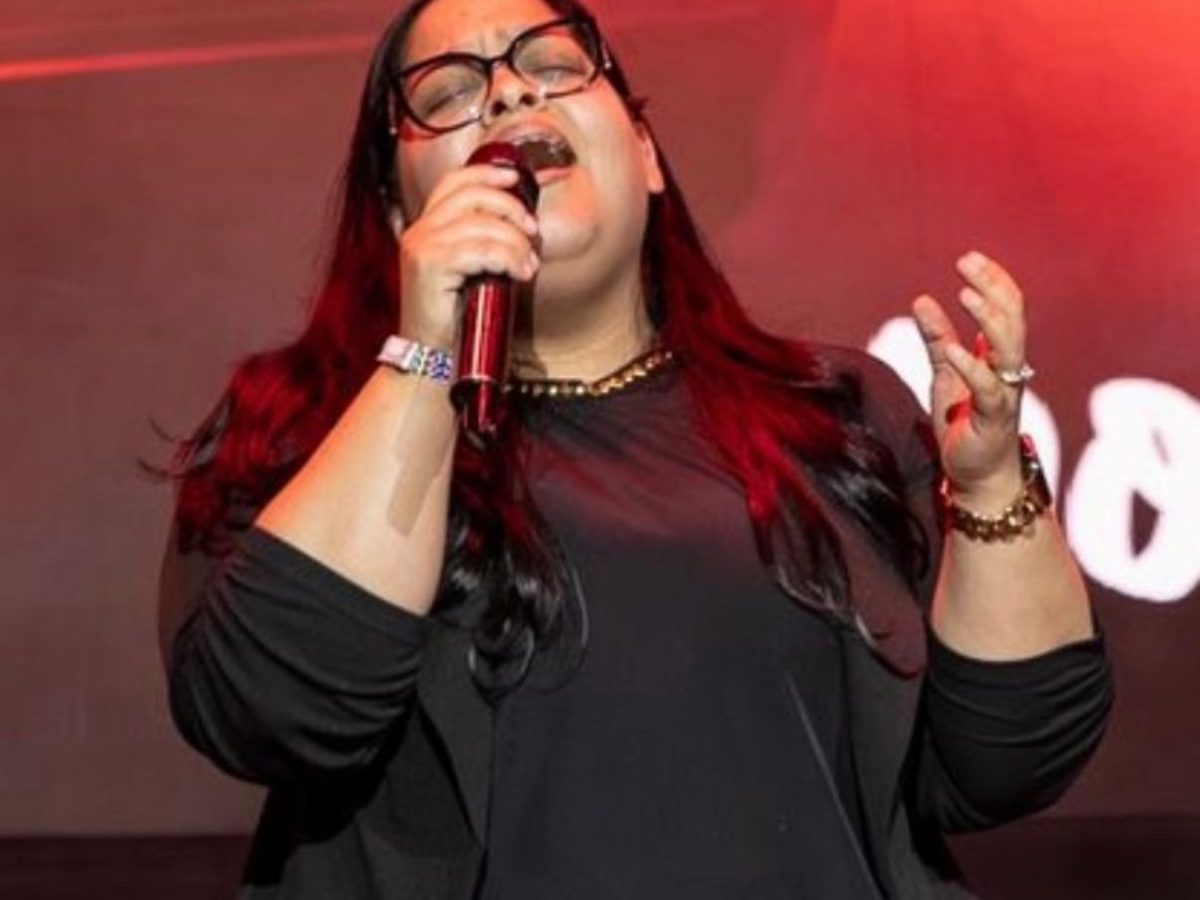
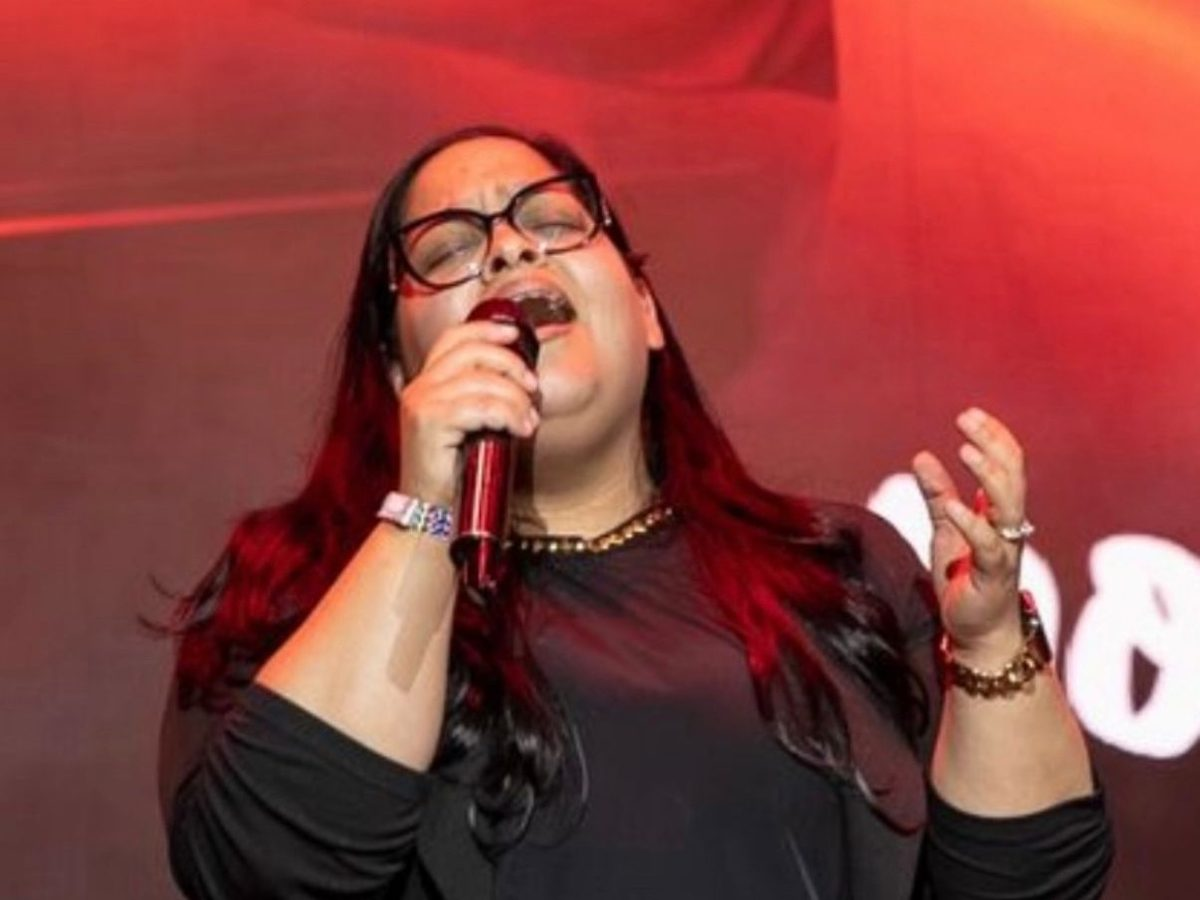
Ajustes pedidos por el cliente
Encuadre de las fotos
- El ajuste que subía el encuadre deja de ser sólo de móvil: en
  escritorio la tarjeta tiene proporciones parecidas (389x432 frente a
  327x432) y sufría lo mismo.
- Pasa a ser configurable por tarjeta con --raise, porque no todas las
  fotos tienen al sujeto en el centro.
- Anhelo Ardiente queda exenta: su foto es vertical y la cantante ya
  salía alta en el recorte, así que subirla le cortaba la cara. Además
  se recorta de nuevo el original dejando aire sobre la cabeza.

Comunidad
- Las tres plataformas pasan a ser tarjetas con fotografía ancha a todo
  el ancho del bloque y el contenido debajo. Las fotos aún no han
  llegado: hasta entonces sale el degradado institucional con la
  etiqueta "Foto pendiente".
- Community Outreach no tiene marca propia y usa el identificador de
  Casa de Bendición.
- Se retira el raíl de progreso vertical, que ya no encaja con tarjetas
  separadas.

Navegación
- "Momentos" pasa a tener su propia ancla, después de Conéctate.

Contenido
- La cifra bajo el vídeo pasa de 9 a 14 ministerios activos.
- Correo de contacto en el footer. Los enlaces mailto: no abren en
  pestaña nueva —dejarían una pestaña en blanco— y llevan su propio
  texto para lectores de pantalla.

diff --git a/src/components/sections/Community.jsx b/src/components/sections/Community.jsx
@@ -1,10 +1,8 @@
-import { useRef } from "react";
-import { motion, useScroll, useSpring } from "framer-motion";
 import { community } from "../../data/site";
 import { Reveal, SplitHeading, Stagger, StaggerItem } from "../ui/Motion";
 import Eyebrow from "../ui/Eyebrow";
 import { DualCTA } from "../ui/Button";
-import { MinistryLogo } from "../ui/Logo";
+import Logo, { MinistryLogo } from "../ui/Logo";
 import { ArcDivider, FlameWatermark, GoldRule } from "../ui/Decor";
 
 /* El título del documento son tres frases: una por línea. */
@@ -13,60 +11,81 @@ const titleLines = community.title
   .map((s, i, a) => (i < a.length - 1 ? `${s}.` : s));
 
 /* ------------------------------------------------------------------ */
+/* Cada plataforma es una tarjeta con fotografía ancha a todo el       */
+/* ancho del bloque y el contenido debajo.                             */
 function Platform({ platform }) {
   return (
     <StaggerItem>
-      <article className="group relative border-t border-white/12 py-12 lg:py-16">
-        <span
-          aria-hidden="true"
-          className="gradient-gold pointer-events-none absolute inset-x-0 top-0 h-[2px] origin-left scale-x-0 transition-transform duration-700 ease-[cubic-bezier(0.16,1,0.3,1)] group-hover:scale-x-100"
-        />
+      <article className="group relative mb-6 overflow-hidden rounded-xl bg-navy-deep/60 shadow-[0_26px_60px_-40px_rgba(0,0,0,0.9)] lg:mb-8">
+        <span aria-hidden="true" className="gradient-gold absolute inset-x-0 top-0 z-20 h-[4px]" />
 
-        <div className="grid grid-cols-1 gap-8 lg:grid-cols-12 lg:gap-10">
-          <div className="lg:col-span-1">
-            <span className="display text-gold-gradient text-[clamp(2.4rem,3.6vw,3.2rem)] leading-none">
+        {/* Banner: la foto ocupa todo el ancho de la subdivisión */}
+        <div className="relative h-[220px] overflow-hidden sm:h-[280px] lg:h-[320px]">
+          {platform.photo ? (
+            <img
+              src={`/comunidad/${platform.photoSlug}.jpg`}
+              alt={platform.name}
+              loading="lazy"
+              className="absolute inset-0 h-full w-full object-cover transition-transform duration-[900ms] ease-[cubic-bezier(0.16,1,0.3,1)] group-hover:scale-[1.05]"
+            />
+          ) : (
+            <>
+              <div className="absolute inset-0 bg-[linear-gradient(150deg,#24406f_0%,#1c3661_55%,#12233f_100%)]" />
+              <span className="label absolute right-4 top-5 z-20 rounded-md border border-white/20 px-2.5 py-1.5 text-[8.5px] text-white/55">
+                Foto pendiente
+              </span>
+            </>
+          )}
+
+          <div
+            aria-hidden="true"
+            className="absolute inset-0 bg-gradient-to-t from-navy-deep via-navy-deep/75 to-navy-deep/20"
+          />
+
+          <div className="relative flex h-full flex-col justify-between p-6 sm:p-8">
+            <span className="display text-gold-gradient text-[clamp(2.2rem,3.4vw,3rem)] leading-none">
               {platform.index}
             </span>
-          </div>
 
-          <div className="lg:col-span-4">
-            {/* Los logos son a color y necesitan fondo claro (pág. 10) */}
-            {platform.slug ? (
-              <div className="mb-6 inline-flex rounded-lg bg-white px-5 py-3.5">
-                <MinistryLogo slug={platform.slug} name={platform.name} height={40} />
-              </div>
-            ) : (
-              <div className="mb-6 inline-flex rounded-lg border border-white/15 px-5 py-3.5">
-                {/* TODO: el cliente aún no ha entregado el logo de Community Outreach */}
-                <span className="label text-[10px] text-navy-mist">[Logo pendiente]</span>
-              </div>
-            )}
-            <h3 className="display text-[clamp(1.6rem,2.8vw,2.2rem)] leading-tight text-white transition-colors duration-400 group-hover:text-gold-light">
-              {platform.name}
-            </h3>
-            <p className="label mt-2.5 text-[10px] text-gold-light/85">{platform.en}</p>
+            <div>
+              {/* Los logos son a color: van sobre placa blanca (pág. 10).
+                  Community Outreach no tiene marca propia, así que usa
+                  el identificador de Casa de Bendición. */}
+              <span className="mb-5 inline-flex rounded-md bg-white px-4 py-3 shadow-[0_8px_22px_-12px_rgba(0,0,0,0.7)]">
+                {platform.slug ? (
+                  <MinistryLogo slug={platform.slug} name={platform.name} height={34} />
+                ) : (
+                  <Logo version="horizontal" className="h-8" alt={platform.name} />
+                )}
+              </span>
+              <h3 className="display text-[clamp(1.5rem,2.6vw,2.1rem)] leading-tight text-white transition-colors duration-400 group-hover:text-gold-light">
+                {platform.name}
+              </h3>
+              <p className="label mt-2 text-[10px] text-gold-light/85">{platform.en}</p>
+            </div>
           </div>
+        </div>
 
-          <div className="lg:col-span-6 lg:col-start-7">
-            <p className="text-[15px] leading-[1.85] text-navy-mist">{platform.text}</p>
+        {/* Cuerpo */}
+        <div className="p-6 sm:p-8">
+          <p className="max-w-[80ch] text-[15px] leading-[1.85] text-navy-mist">{platform.text}</p>
 
-            {platform.extensions.length > 0 && (
-              <div className="mt-8">
-                <p className="label text-[9.5px] text-white/40">Extensiones</p>
-                <div className="mt-4 grid grid-cols-1 gap-4 sm:grid-cols-2">
-                  {platform.extensions.map((ext) => (
-                    <div
-                      key={ext.name}
-                      className="rounded-lg bg-white p-5 transition-transform duration-400 hover:-translate-y-1"
-                    >
-                      <MinistryLogo slug={ext.slug} name={ext.name} height={36} />
-                      <p className="mt-4 text-[12.5px] leading-relaxed text-stone">{ext.text}</p>
-                    </div>
-                  ))}
-                </div>
+          {platform.extensions.length > 0 && (
+            <div className="mt-8">
+              <p className="label text-[9.5px] text-white/40">Extensiones</p>
+              <div className="mt-4 grid grid-cols-1 gap-4 sm:grid-cols-2">
+                {platform.extensions.map((ext) => (
+                  <div
+                    key={ext.name}
+                    className="rounded-lg bg-white p-5 transition-transform duration-400 hover:-translate-y-1"
+                  >
+                    <MinistryLogo slug={ext.slug} name={ext.name} height={36} />
+                    <p className="mt-4 text-[12.5px] leading-relaxed text-stone">{ext.text}</p>
+                  </div>
+                ))}
               </div>
-            )}
-          </div>
+            </div>
+          )}
         </div>
       </article>
     </StaggerItem>
@@ -75,10 +94,6 @@ function Platform({ platform }) {
 
 /* ------------------------------------------------------------------ */
 export default function Community() {
-  const listRef = useRef(null);
-  const { scrollYProgress } = useScroll({ target: listRef, offset: ["start 80%", "end 70%"] });
-  const draw = useSpring(scrollYProgress, { stiffness: 90, damping: 26, mass: 0.4 });
-
   return (
     <section id="comunidad" className="relative isolate overflow-hidden bg-navy py-28 lg:py-36">
       <FlameWatermark className="-right-24 top-24 text-white" size={520} opacity={0.035} />
@@ -111,13 +126,7 @@ export default function Community() {
         </Reveal>
 
         {/* Plataformas */}
-        <div ref={listRef} className="relative mt-20 lg:mt-28">
-          <div className="pointer-events-none absolute -left-5 top-0 hidden h-full w-[2px] bg-white/10 xl:block" />
-          <motion.div
-            style={{ scaleY: draw }}
-            className="gradient-gold pointer-events-none absolute -left-5 top-0 hidden h-full w-[2px] origin-top xl:block"
-          />
-
+        <div className="relative mt-20 lg:mt-28">
           <Stagger step={0.12}>
             {community.platforms.map((p) => (
               <Platform key={p.name} platform={p} />

diff --git a/src/data/site.js b/src/data/site.js
@@ -27,6 +27,7 @@ export const nav = [
   { label: "Ministerios", href: "#ministerios" },
   { label: "Comunidad", href: "#comunidad" },
   { label: "Conéctate", href: "#conectate" },
+  { label: "Momentos", href: "#momentos" },
   { label: "Donar", href: "#donar" },
   { label: "Visítanos", href: "#visitanos" },
 ];
@@ -111,7 +112,7 @@ export const about = {
   // Cifras derivadas del propio documento (reuniones, ministerios y sedes listados)
   stats: [
     { value: "5", label: "Reuniones cada semana" },
-    { value: "9", label: "Ministerios activos" },
+    { value: "14", label: "Ministerios activos" },
     { value: "2", label: "Sedes en Nueva York" },
     { value: "3", label: "Plataformas de impacto" },
   ],
@@ -256,6 +257,9 @@ export const ministries = {
     {
       slug: "anhelo-ardiente",
       photo: true,
+      // Su foto es vertical y la cantante ya queda alta en el recorte:
+      // subirla le cortaba la cara.
+      raise: 0,
       name: "Anhelo Ardiente Worship",
       text: "Nuestro ministerio de adoración, dedicado a guiar a la congregación hacia una experiencia genuina de adoración y entrega a Dios.",
       by: null,
@@ -306,6 +310,9 @@ export const community = {
       index: "01",
       name: "Blueprint Mentorship",
       slug: "blueprint-mentorship",
+      photoSlug: "blueprint-mentorship",
+      photo: false, // pendiente de subir
+
       en: "Leadership & Family Development",
       text: "Plataforma de mentoría y desarrollo diseñada para fortalecer personas y familias, desarrollar liderazgo y acompañar a diferentes generaciones en procesos de crecimiento, propósito y participación comunitaria.",
       extensions: [],
@@ -314,6 +321,9 @@ export const community = {
       index: "02",
       name: "Echo Media",
       slug: "echo-media",
+      photoSlug: "echo-media",
+      photo: false, // pendiente de subir
+
       en: "Community Leadership & Digital Innovation",
       text: "Echo Media utiliza comunicación, creatividad y herramientas digitales como vehículos para desarrollar habilidades, liderazgo y oportunidades de participación. Su enfoque incluye desarrollo de habilidades digitales, comunicación, creación de contenido, innovación y preparación profesional.",
       extensions: [],
@@ -321,7 +331,9 @@ export const community = {
     {
       index: "03",
       name: "Community Outreach",
-      slug: null, // pendiente: el cliente no ha entregado este logo
+      slug: null, // sin marca propia: usa el identificador de Casa de Bendición
+      photoSlug: "community-outreach",
+      photo: false, // pendiente de subir
       en: "Neighborhood Engagement",
       text: "Community Outreach moviliza el servicio más allá de las actividades internas de la iglesia mediante participación comunitaria, voluntariado, apoyo práctico, conexión con recursos y colaboración.",
       extensions: [
@@ -518,4 +530,6 @@ export const socials = [
   { name: "Facebook", href: "https://www.facebook.com/p/Casa-De-Bendicion-61583118900335/" },
   { name: "YouTube", href: "https://youtube.com/@casa.de.bendicion-mpi" },
   { name: "TikTok", href: "https://www.tiktok.com/@casa.de.bendicion_mpi" },
+  { name: "Email", href: "mailto:houseofblessingsny@gmail.com" },
+  // TODO: falta el teléfono; el cliente aún no tiene número.
 ];

diff --git a/src/components/layout/Footer.jsx b/src/components/layout/Footer.jsx
@@ -31,21 +31,30 @@ export default function Footer() {
               </p>
 
               <div className="mt-8 flex flex-wrap gap-2.5">
-                {socials.map((red) => (
+                {socials.map((red) => {
+                  /* mailto: y tel: no deben abrirse en pestaña nueva:
+                     dejarían una pestaña en blanco detrás. */
+                  const externo = red.href.startsWith("http");
+                  return (
                   <motion.a
                     key={red.name}
                     href={red.href}
-                    target="_blank"
-                    rel="noopener noreferrer"
-                    aria-label={`${brand.name} en ${red.name}`}
-                    title={red.name}
+                    target={externo ? "_blank" : undefined}
+                    rel={externo ? "noopener noreferrer" : undefined}
+                    aria-label={
+                      externo
+                        ? `${brand.name} en ${red.name}`
+                        : `Escríbenos a ${red.href.replace("mailto:", "")}`
+                    }
+                    title={externo ? red.name : red.href.replace("mailto:", "")}
                     whileHover={{ y: -3 }}
                     transition={{ type: "spring", stiffness: 400, damping: 22 }}
                     className="grid h-10 w-10 place-items-center rounded-md border border-white/15 text-navy-mist transition-colors duration-400 hover:border-gold hover:bg-gold hover:text-navy"
                   >
                     <SocialIcon name={red.name} />
                   </motion.a>
-                ))}
+                  );
+                })}
               </div>
             </Reveal>
           </div>

diff --git a/src/components/ui/PhotoCard.jsx b/src/components/ui/PhotoCard.jsx
@@ -22,7 +22,7 @@ export default function PhotoCard({
   footnote,
   onClick,
   minHeight = "27rem",
-  raiseOnMobile = false,
+  raise = null,
 }) {
   /* Red de seguridad: si la foto no existe o falla al cargar, la
      tarjeta cae al degradado institucional en vez de enseñar una
@@ -46,15 +46,11 @@ export default function PhotoCard({
             alt={alt}
             loading="lazy"
             onError={() => setFalloFoto(true)}
-            /* En móvil la tarjeta es vertical y la foto apaisada: se ve
-               entera de alto, así que los protagonistas caen en el centro
-               y el velo los tapa. Anclando la imagen abajo y dándole algo
-               más de alto, el encuadre sube y las personas quedan en la
-               franja visible. En pantallas grandes no hace falta. */
-            className={`absolute inset-x-0 w-full object-cover transition-transform duration-[900ms] ease-[cubic-bezier(0.16,1,0.3,1)] group-hover:scale-[1.06] ${
-              raiseOnMobile
-                ? "bottom-0 h-[124%] sm:top-0 sm:h-full"
-                : "inset-0 h-full"
+            /* El encuadre se ajusta con .photo-raise (ver index.css).
+               Cada tarjeta puede dar su propio valor. */
+            style={raise != null ? { "--raise": `${raise}%` } : undefined}
+            className={`absolute inset-0 h-full w-full object-cover transition-transform duration-[900ms] ease-[cubic-bezier(0.16,1,0.3,1)] group-hover:scale-[1.06] ${
+              raise != null ? "photo-raise" : ""
             }`}
           />
         ) : (

diff --git a/src/components/sections/Moments.jsx b/src/components/sections/Moments.jsx
@@ -9,9 +9,10 @@ import { Flame, GoldRule } from "../ui/Decor";
 /**
  * "Momentos que marcan" — continuación de Conéctate.
  *
- * Comparte ancla con Conéctate (#conectate): son la misma parada del
- * menú. Las 4 opciones de arriba responden a "qué quiero hacer" y
- * estas 12 tarjetas a "qué estoy viviendo".
+ * Tiene su propia parada en el menú (#momentos, justo después de
+ * Conéctate) por petición del cliente. Las 4 opciones de Conéctate
+ * responden a "qué quiero hacer" y estas 12 tarjetas a "qué estoy
+ * viviendo".
  *
  * Las doce abren el mismo formulario con su momento ya
  * preseleccionado, en lugar de doce modales casi idénticos.
@@ -20,7 +21,7 @@ export default function Moments() {
   const { open } = useModal();
 
   return (
-    <section className="relative isolate overflow-hidden bg-white py-24 lg:py-32">
+    <section id="momentos" className="relative isolate overflow-hidden bg-white py-24 lg:py-32">
       <Flame className="pointer-events-none absolute -right-24 top-32 h-[440px] w-auto text-navy/[0.03]" />
 
       <div className="shell relative">
@@ -61,7 +62,7 @@ export default function Moments() {
               text={m.cta}
               footnote="Conéctate"
               minHeight="22rem"
-              raiseOnMobile
+              raise={24}
               onClick={() => open("acompanamiento", { momento: m.name })}
             />
           ))}

diff --git a/src/index.css b/src/index.css
@@ -157,3 +157,18 @@
   max-width: 34rem;
   line-height: 1.75;
 }
+
+/* Encuadre de las fotos de tarjeta.
+   La tarjeta es vertical y las fotos apaisadas: se ven enteras de alto
+   y el velo con el texto tapa más de la mitad inferior, así que los
+   protagonistas quedan escondidos. Anclando la imagen abajo y dándole
+   algo más de alto, el encuadre sube.
+   Se aplica en todos los tamaños: la proporción de la tarjeta es
+   parecida en móvil (327x432) y en escritorio (389x432).
+   Cada tarjeta puede afinar su valor con --raise (0% = sin subir),
+   porque no todas las fotos tienen al sujeto en el centro. */
+.photo-raise {
+  top: auto;
+  bottom: 0;
+  height: calc(100% + var(--raise, 24%));
+}

diff --git a/src/components/sections/Ministries.jsx b/src/components/sections/Ministries.jsx
@@ -18,7 +18,7 @@ function MinistryCard({ item, onOpen }) {
       brand={<MinistryLogo slug={item.slug} name={item.name} height={36} />}
       text={item.text}
       footnote={item.by ?? "Casa de Bendición"}
-      raiseOnMobile
+      raise={item.raise ?? 24}
       onClick={onOpen}
     />
   );

diff --git a/README.md b/README.md
@@ -48,7 +48,7 @@ export CDB_HOST=usuario@mi-servidor   # acceso SSH por clave
 | — | Testimonios de las familias | `sections/Testimonials` | `#testimonios` |
 | 10 | ¿Es tu primera vez? + formulario | `sections/FirstTime` | `#visitanos` |
 | 11 | Conéctate (4 modales) | `sections/Connect` | `#conectate` |
-| — | Momentos que marcan (12 tarjetas) | `sections/Moments` | `#conectate` |
+| — | Momentos que marcan (12 tarjetas) | `sections/Moments` | `#momentos` |
 | 12 | Donar | `sections/Donate` | `#donar` |
 | — | Cierre "Tu historia puede comenzar aquí" | `sections/FinalCta` | — |
 | — | Footer | `layout/Footer` | — |
@@ -150,6 +150,8 @@ negativa según el fondo. Respeta la reducción mínima de la pág. 12
 
 **Fotografías**
 - **Revival Youth** — es el único de los 9 ministerios sin foto.
+- Fotos de la sección **Comunidad**: las tres plataformas ya tienen el
+  hueco preparado y salen con "Foto pendiente" hasta que lleguen.
 - Retrato de los **pastores** y las dos fotos de **Bienvenida**.
 - **Vídeo institucional**.
 
@@ -157,7 +159,6 @@ Las tarjetas sin foto se resuelven con el degradado azul institucional y una
 etiqueta discreta "Foto pendiente": no se ven rotas, pero se identifican.
 
 **Marca**
-- Logo de **Community Outreach** (aparece como plataforma 03 sin logo).
 - **KICK**: sólo hay versión apilada; faltan la horizontal y el isotipo.
 - Los logos llegaron en PNG; en SVG el del navbar se vería más nítido.
 
@@ -169,8 +170,8 @@ transparencia aplicada al identificador). En la web se usan los logos limpios
 del Drive; si el cliente los está publicando así en redes, conviene avisarle.
 
 **Contacto**
-Faltan el correo y el teléfono para completar la columna "Conecta" del
-footer. Las cuatro redes ya están enlazadas.
+Falta el teléfono; el cliente todavía no tiene número. Las cuatro redes
+y el correo ya están enlazados.
 
 **Backend**
 Los formularios son demo de interfaz. El `TODO(backend)` está en
